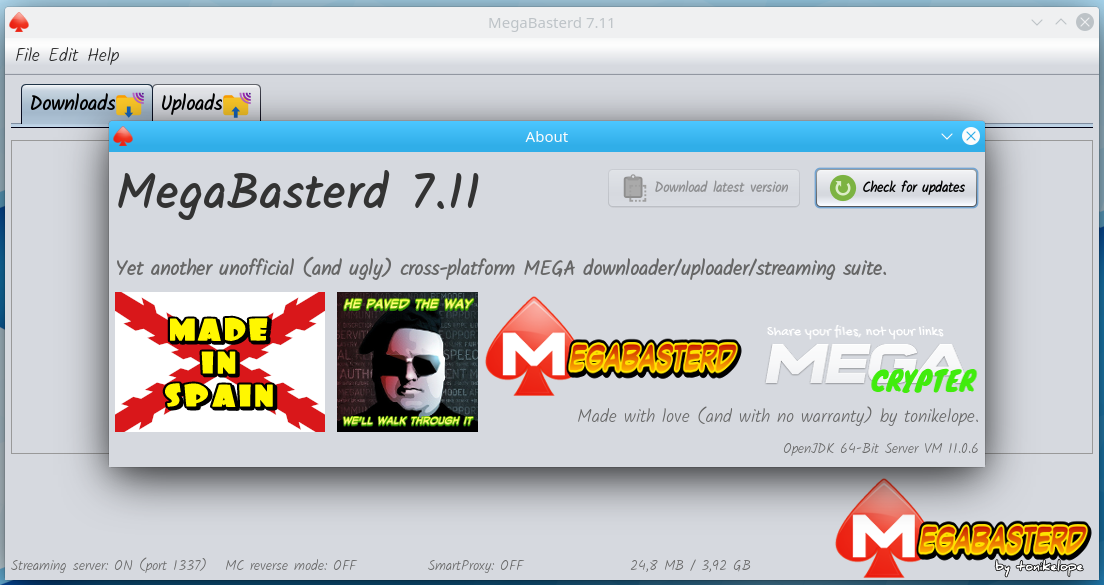
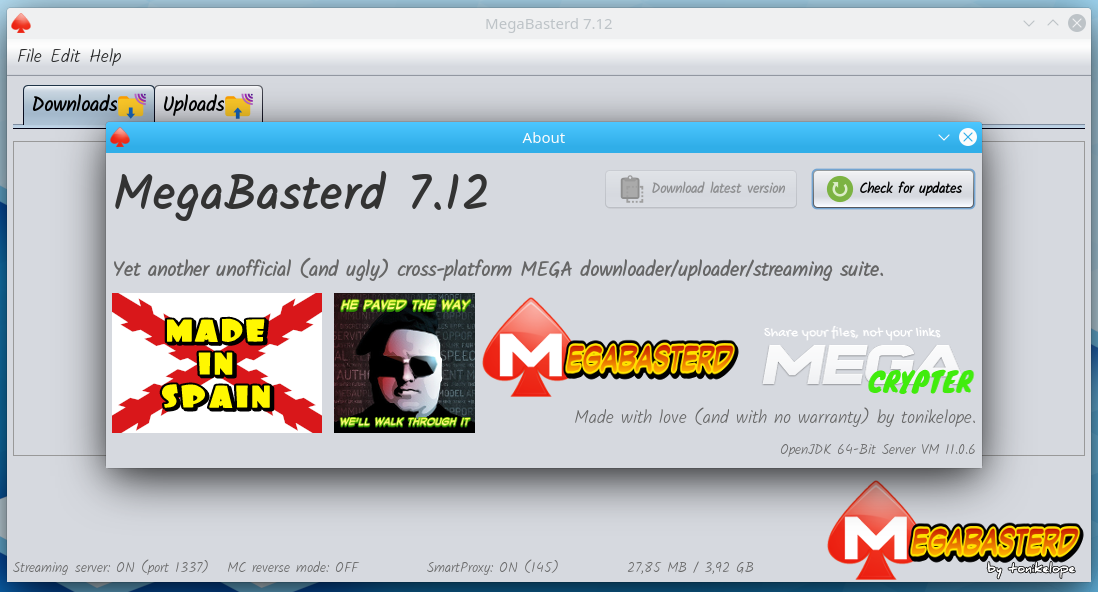
7.12
MegaAPI error retry fix

(cherry picked from commit aa94d93be16dd1136dd83d64d51502bf1780e574)
(cherry picked from commit 3801cf82cfa41ce9aff5914feaba402f09c3cc39)

diff --git a/src/main/java/com/tonikelope/megabasterd/MainPanel.java b/src/main/java/com/tonikelope/megabasterd/MainPanel.java
@@ -55,7 +55,7 @@ import javax.swing.UIManager;
  */
 public final class MainPanel {
 
-    public static final String VERSION = "7.11";
+    public static final String VERSION = "7.12";
     public static final boolean FORCE_SMART_PROXY = false; //TRUE FOR DEBUGING SMART PROXY
     public static final int THROTTLE_SLICE_SIZE = 16 * 1024;
     public static final int DEFAULT_BYTE_BUFFER_SIZE = 16 * 1024;

diff --git a/src/main/java/com/tonikelope/megabasterd/MegaCrypterAPI.java b/src/main/java/com/tonikelope/megabasterd/MegaCrypterAPI.java
@@ -97,8 +97,8 @@ public class MegaCrypterAPI {
                 }
             }
 
-        } catch (Exception ex) {
-            Logger.getLogger(MegaAPI.class.getName()).log(Level.SEVERE, ex.getMessage());
+        } catch (IOException ex) {
+            Logger.getLogger(MegaCrypterAPI.class.getName()).log(Level.SEVERE, ex.getMessage());
         } finally {
 
             if (con != null) {

diff --git a/src/main/java/com/tonikelope/megabasterd/MegaAPI.java b/src/main/java/com/tonikelope/megabasterd/MegaAPI.java
@@ -484,7 +484,7 @@ public class MegaAPI implements Serializable {
 
                 }
 
-            } catch (Exception ex) {
+            } catch (IOException ex) {
 
                 Logger.getLogger(MegaAPI.class.getName()).log(Level.SEVERE, ex.getMessage());
 
